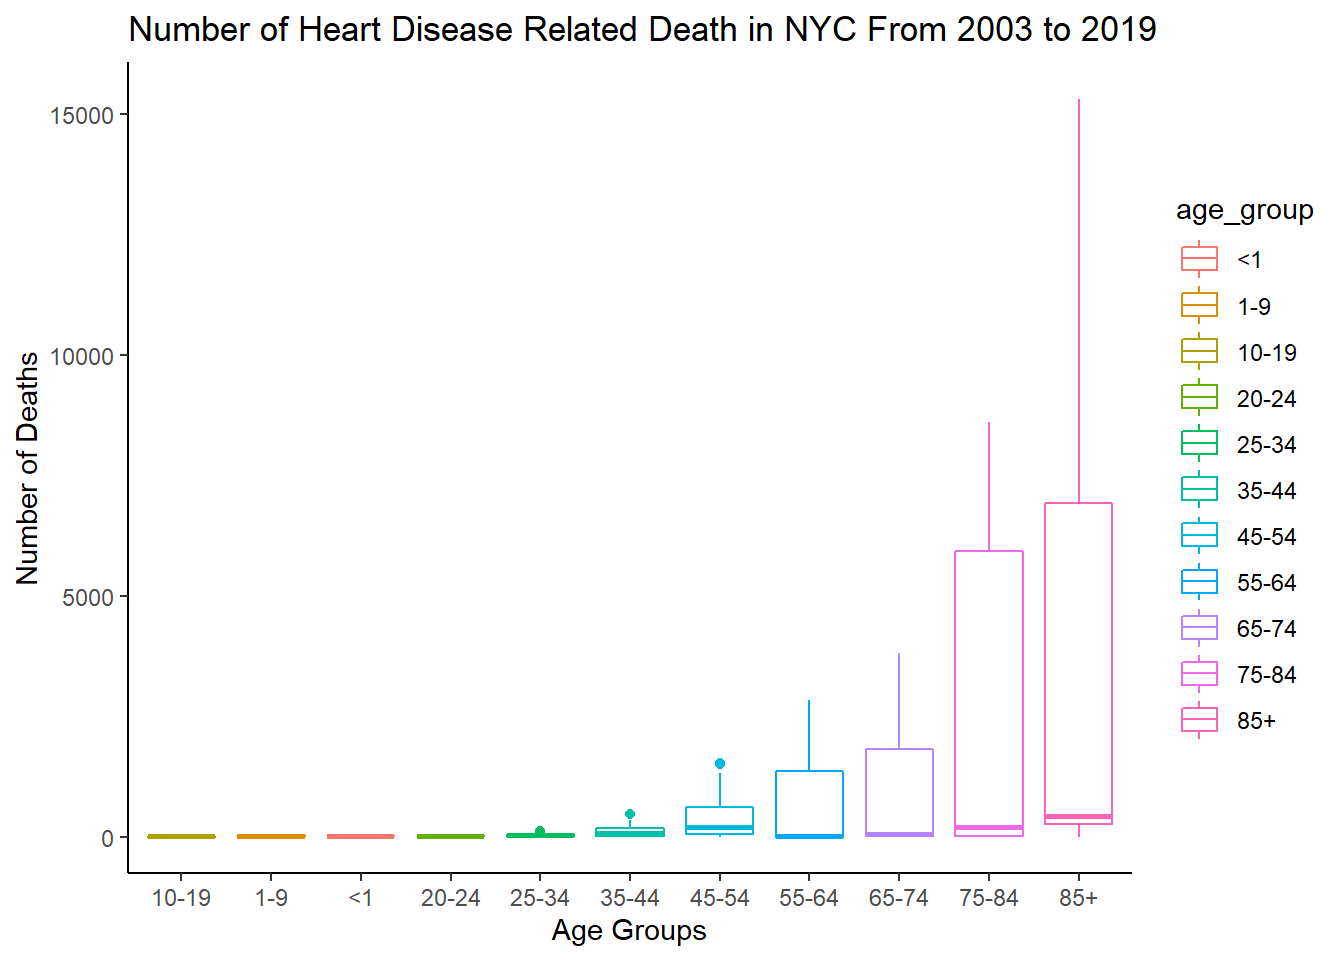
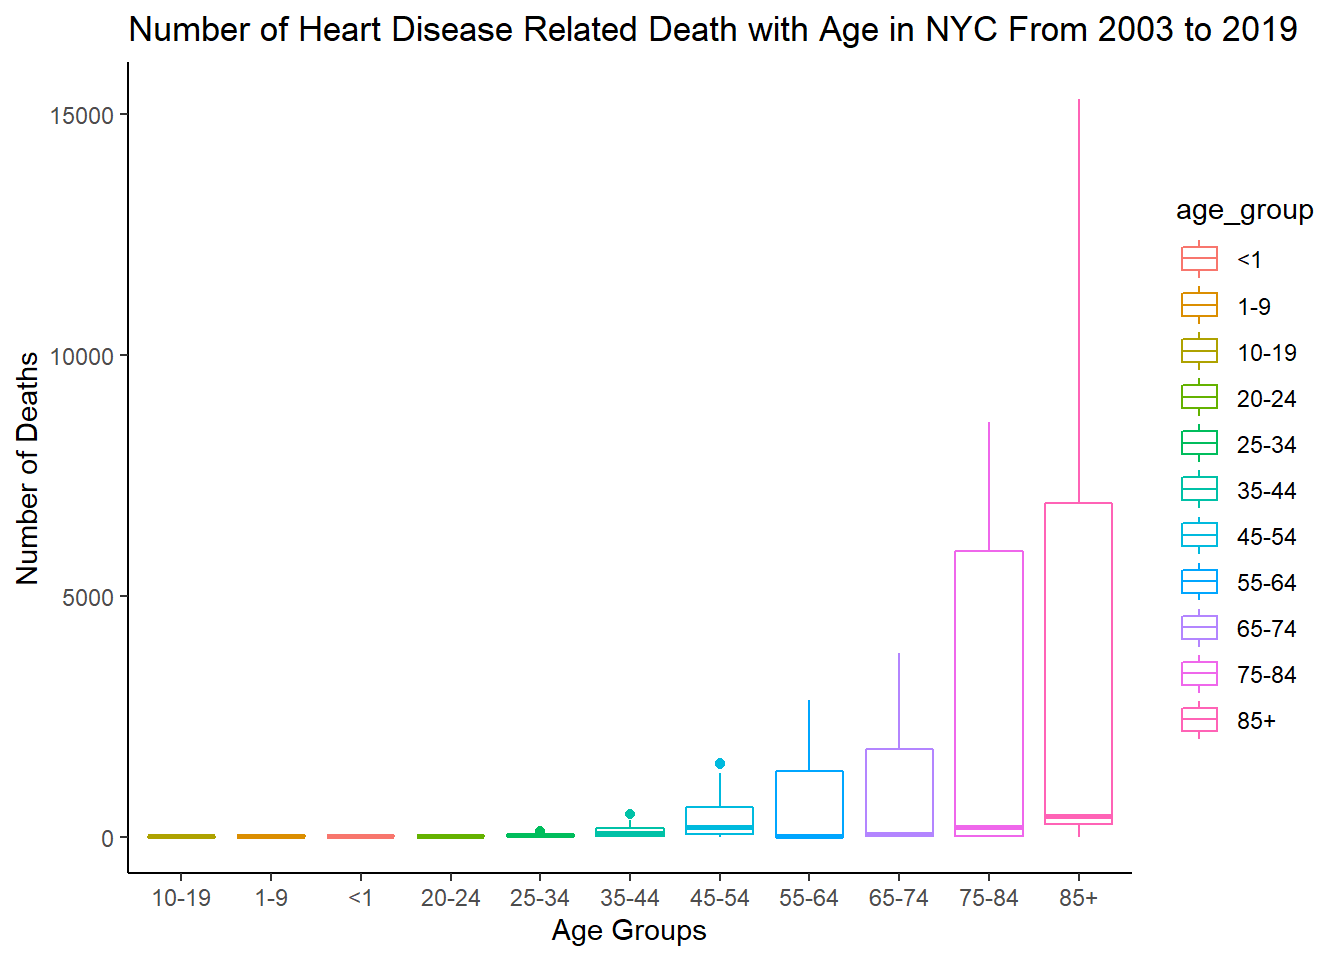
plot race with heart disease related deaths

Changed region(s): [[0.5625, 0.0, 0.9688, 0.0625]]

diff --git a/Heart-Disease-Related-Deaths.html b/Heart-Disease-Related-Deaths.html
@@ -494,14 +494,24 @@ summary(MLR)</code></pre>
 ## Residual standard error: 2232 on 185 degrees of freedom
 ## Multiple R-squared:  0.3771, Adjusted R-squared:   0.33 
 ## F-statistic: 8.001 on 14 and 185 DF,  p-value: 3.336e-13</code></pre>
-<pre class="r"><code>death_df %&gt;% 
+<pre class="r"><code>#plot age_groups with heart disease related deaths
+death_df %&gt;% 
   ggplot(aes(y = deaths, x = reorder(age_group, deaths), color = age_group))+
   geom_boxplot()+
   theme_classic()+
   labs(x = &quot;Age Groups&quot;,
        y = &quot;Number of Deaths&quot;,
-       title = &quot;Number of Heart Disease Related Death in NYC From 2003 to 2019&quot;)</code></pre>
+       title = &quot;Number of Heart Disease Related Death with Age in NYC From 2003 to 2019&quot;)</code></pre>
 <p><img src="Heart-Disease-Related-Deaths_files/figure-html/unnamed-chunk-9-1.png" width="672" /></p>
+<pre class="r"><code>#plot race with heart disease related deaths
+death_df %&gt;% 
+  ggplot(aes(y = deaths, x = reorder(race_or_ethnicity, deaths), color = race_or_ethnicity))+
+  geom_boxplot()+
+  theme_classic()+
+  labs(x = &quot;Race or Ethnicity&quot;,
+       y = &quot;Number of Deaths&quot;,
+       title = &quot;Number of Heart Disease Related Death with Race in NYC From 2003 to 2019&quot;)</code></pre>
+<p><img src="Heart-Disease-Related-Deaths_files/figure-html/unnamed-chunk-10-1.png" width="672" /></p>
 
 
 
